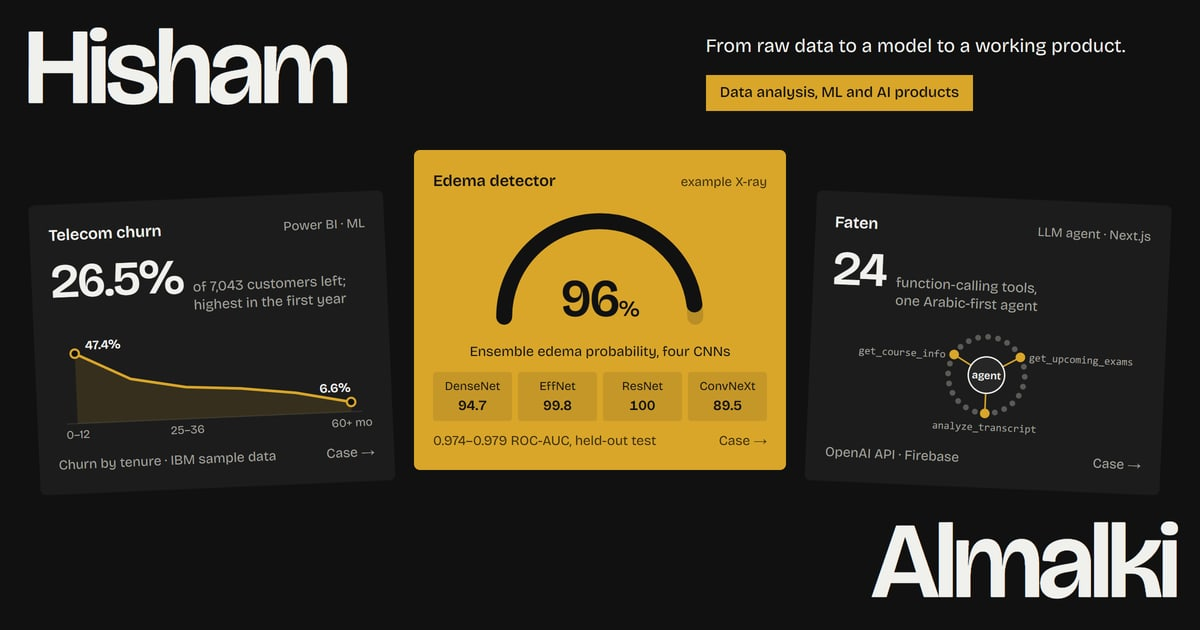
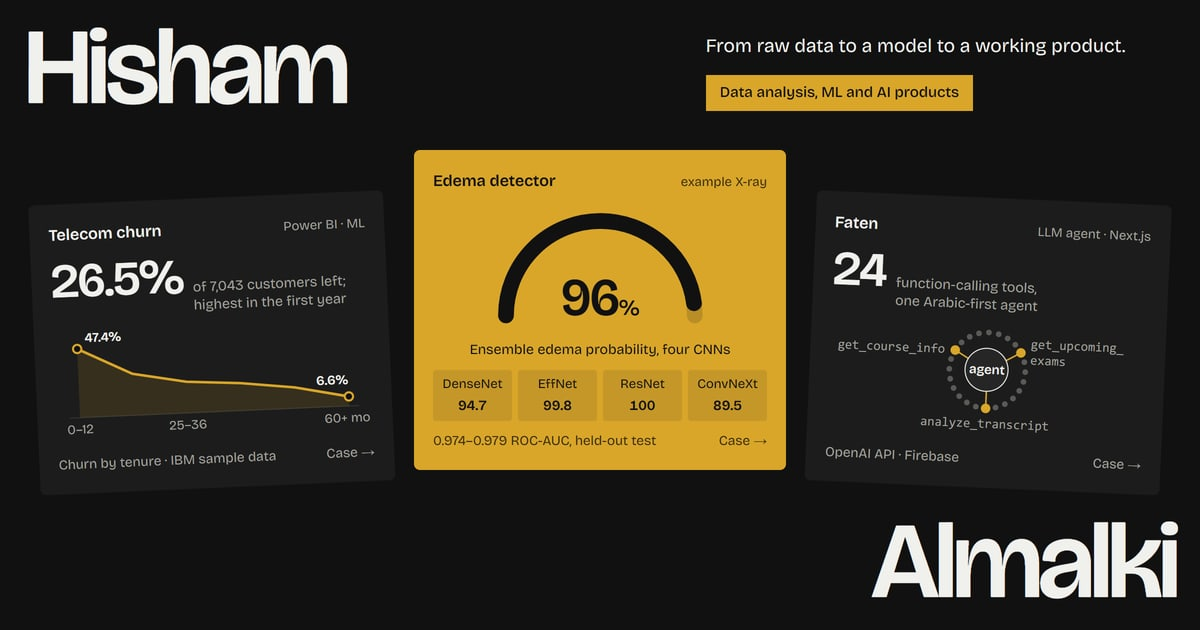
Make the hero cards readable at every size and fix narrow-screen overflow
The chart words (axis and value labels, tool names, "agent") move out of
the SVG into HTML laid over it, so they stay 13px however small the chart
is drawn; tool names are code and may break after an underscore. The card
row grows to 1440px with the heights in proportion and sits centred between
the intro and the name. On tablets the hero nav keeps all five links on one
line.

With large text on a phone, the Edema slider no longer widens its column
(its range input takes a row of its own when narrow), the case buttons
shrink and wrap, and long words in the skills table break.

diff --git a/src/index.css b/src/index.css
@@ -127,9 +127,9 @@ button { font: inherit; color: inherit; }
    straighten on hover and focus; the centre card is ochre, taller and on top.
    Fixed sizes, the mockup's at the default text size (rem, so the reader's
    text setting still applies), never the page's fluid curve: the row is at
-   most 1300px wide and centred, inset 1rem so the tilt (about 13px at a
+   most 1440px wide and centred, inset 1rem so the tilt (about 14px at a
    card's corner) stays inside the page margins. */
-.hc { grid-column: 1 / -1; grid-row: 3; align-self: center; justify-self: center; width: min(100% - 2rem, 81.25rem);
+.hc { grid-column: 1 / -1; grid-row: 3; align-self: center; justify-self: center; width: min(100% - 2rem, 90rem);
       list-style: none; margin: 0; padding: 0; display: grid;
       grid-template-columns: minmax(0, 1fr) minmax(0, 1.05fr) minmax(0, 1fr); column-gap: clamp(0.875rem, 1.6vw, 1.5rem); align-items: end; }
 .hc > li { grid-row: 1; container-type: inline-size; }
@@ -149,17 +149,24 @@ button { font: inherit; color: inherit; }
 .hc-f { margin-top: auto; display: flex; justify-content: space-between; gap: 10px; font-size: 0.84375rem; color: var(--dk-muted); }
 .hc-card.hl .hc-h span, .hc-card.hl .hc-f { color: var(--ac-muted); }
 .hc-f i { font-style: normal; white-space: nowrap; }
-.hc-big { display: flex; align-items: baseline; gap: 10px; }
+.hc-big { display: flex; flex-wrap: wrap; align-items: baseline; gap: 4px 10px; } /* the note drops under the number when there is no room beside it */
 .hc-big b { font-weight: 600; font-size: clamp(3rem, 3.6vw, 3.375rem); letter-spacing: -0.04em; line-height: 1; font-variant-numeric: tabular-nums; }
 .hc-big span { font-size: 0.875rem; color: var(--dk-muted); line-height: 1.3; }
 .hc svg { display: block; width: 100%; height: auto; overflow: visible; }
+/* Charts: the SVG draws, the words are HTML over it at fixed sizes (12px and
+   up); .g keeps the drawing's ratio, so the words' percentages land on it */
+.hc-fig .g { position: relative; width: 100%; aspect-ratio: var(--hc-r); }
+.hc-fig svg { position: absolute; inset: 0; width: 100%; height: 100%; }
+.hc-fig .g > span > * { position: absolute; line-height: 1.25; white-space: nowrap; }
 /* Churn by tenure */
 .hc-line .ln { fill: none; stroke: var(--ac-bg); stroke-width: 2.5; stroke-linejoin: round; stroke-linecap: round; stroke-dasharray: 100; }
 .hc-line .ar { fill: var(--ac-bg); opacity: 0.14; }
 .hc-line .gl { stroke: var(--dk-line); stroke-width: 1; }
 .hc-line circle { fill: var(--dk-bg); stroke: var(--ac-bg); stroke-width: 2; }
-.hc-line text { fill: var(--dk-muted); font: 11px var(--font); }
-.hc-line text.v { fill: var(--dk-ink); font-size: 12px; font-weight: 600; }
+.hc-line .v { font-size: 0.8125rem; font-weight: 600; color: var(--dk-ink); transform: translate(8px, calc(-100% - 2px)); }
+.hc-line .v.end { transform: translateY(calc(-100% - 8px)); }
+.hc-line .ax { font-size: 0.8125rem; color: var(--dk-muted); transform: translate(-50%, 4px); }
+.hc-line .ax.end { transform: translateY(4px); }
 /* The ensemble gauge: the number sits on the arc's wrapper */
 .hc-gauge .g { position: relative; width: min(100%, 16.25rem); margin: 0 auto; }
 .hc-gauge .tr, .hc-gauge .arc { fill: none; stroke-width: 14; stroke-linecap: round; }
@@ -169,25 +176,31 @@ button { font: inherit; color: inherit; }
                  letter-spacing: -0.04em; line-height: 1; font-variant-numeric: tabular-nums; }
 .hc-gauge .val small { font-size: 0.42em; font-weight: 500; letter-spacing: 0; }
 .hc-sub { text-align: center; font-size: 0.875rem; }
-.hc-votes { list-style: none; margin: 0; padding: 0; display: grid; grid-template-columns: repeat(4, minmax(0, 1fr)); gap: 6px; text-align: center; font-size: 0.75rem; }
+.hc-votes { list-style: none; margin: 0; padding: 0; display: grid; grid-template-columns: repeat(4, minmax(0, 1fr)); gap: 6px; text-align: center; font-size: 0.8125rem; }
 .hc-votes li { background: rgb(17 17 17 / 0.1); padding: 5px 2px; border-radius: 3px; min-width: 0; }
 .hc-votes b { display: block; font-size: 0.875rem; font-variant-numeric: tabular-nums; }
 /* The agent and its tools */
 .hc-hub .nd { fill: var(--lt-muted); }
 .hc-hub .nk { fill: var(--ac-bg); }
 .hc-hub .sp { stroke: var(--ac-bg); stroke-width: 1.6; stroke-dasharray: 100; }
-.hc-hub .hc-c { fill: var(--dk-raise); stroke: var(--dk-ink); stroke-width: 1.5; }
-.hc-hub .ht { fill: var(--dk-ink); font: 600 11px var(--font); }
-.hc-hub .tl { fill: var(--dk-muted); font: 11px ui-monospace, Consolas, monospace; }
-/* Side by side: fixed heights (sides 290px, the centre 320px), bottom-aligned,
-   each chart filling what its card has left; the row keeps clear of the name
-   below, which the tilt brings each outer corner about 28px towards */
+.hc-hub .agent { width: 2.75rem; height: 2.75rem; border-radius: 50%; display: grid; place-items: center; transform: translate(-50%, -50%);
+                 background: var(--dk-raise); border: 1.5px solid var(--dk-ink); color: var(--dk-ink); font-size: 0.8125rem; font-weight: 600; }
+.hc-hub .tl { font: 0.8125rem/1.25 ui-monospace, Consolas, monospace; color: var(--dk-muted); white-space: normal; overflow-wrap: anywhere; transform: translateY(-50%); }
+.hc-hub .tl.right { right: 0; } .hc-hub .tl.left { left: 0; text-align: right; } .hc-hub .tl.below { text-align: center; transform: none; }
+/* Side by side: the mockup's heights at a 1300px row (sides 290px, the centre
+   320px), growing with the row to 321 and 354px at its 1440px cap;
+   bottom-aligned, each chart filling what its card has left. The row is
+   centred between the intro and the name, kept clear of the name, which the
+   tilt brings each outer corner about 30px towards. */
 @media (min-width: 68.8125em) {
-  .hc { margin-bottom: 1.5rem; }
-  .hc-card { height: 18.125rem; }
-  .hc-card.hl { height: 20rem; }
-  .hc-card > svg, .hc-gauge { flex: 1 1 0; min-height: 0; }
-  .hc-card > svg { height: 100%; }
+  .hc { --row: min(100vw - 2 * var(--margin) - 2rem, 90rem); margin-bottom: 1.75rem; }
+  .hc-card { height: max(18.125rem, var(--row) * 0.2231); }
+  .hc-card.hl { height: max(20rem, var(--row) * 0.2462); }
+  .hc-fig, .hc-gauge { flex: 1 1 0; min-height: 0; }
+  .hc-fig { container-type: size; }
+  .hc-fig .g { width: min(100cqw, 100cqh * var(--hc-r)); margin-inline: auto; }
+  /* the tool names may use the chart area's full width, beyond the drawing */
+  .hc-hub .tl.right { right: calc((100% - 100cqw) / 2); } .hc-hub .tl.left { left: calc((100% - 100cqw) / 2); }
   .hc-gauge .g { width: auto; max-width: 100%; height: 100%; aspect-ratio: 200 / 112; }
   .hc-gauge .g svg { height: 100%; }
 }
@@ -198,7 +211,7 @@ button { font: inherit; color: inherit; }
     .hc-card:not(.hl) { display: grid; grid-template-columns: minmax(0, 1fr) minmax(0, 1.4fr); grid-template-rows: auto 1fr auto; gap: 14px 32px; }
     .hc-card:not(.hl) > .hc-h, .hc-card:not(.hl) > .hc-f { grid-column: 1 / -1; }
     .hc-card:not(.hl) > .hc-big { flex-direction: column; align-items: flex-start; align-self: start; }
-    .hc-card:not(.hl) > svg { grid-column: 2; grid-row: 2; max-width: 26rem; justify-self: end; }
+    .hc-card:not(.hl) > .hc-fig { grid-column: 2; grid-row: 2; width: 100%; max-width: 26rem; justify-self: end; }
   }
 }
 
@@ -266,7 +279,7 @@ dl.d dt { color: var(--lt-muted); }
 dl.d dd { margin: 0; }
 /* Buttons: one size everywhere, half of a 5-column details column */
 .cells { --btn: calc((100cqw - var(--col-gap)) * 5 / 24); display: flex; margin-top: 28px; }
-.cells a { flex: 0 0 var(--btn); min-height: 64px; display: flex; align-items: center; padding: 0 22px; text-decoration: none; font-weight: 500; transition: background-color var(--t-hover) ease; }
+.cells a { flex: 0 1 var(--btn); min-width: 0; min-height: 64px; display: flex; align-items: center; padding: 0 22px; text-decoration: none; font-weight: 500; transition: background-color var(--t-hover) ease; }
 .cells a:first-child { background: var(--bl-bg); color: var(--bl-ink); }
 .cells a:first-child:hover { background: var(--bl-hover); }
 .cells a:first-child:focus-visible { outline-color: var(--f-lt); }
@@ -319,7 +332,7 @@ dl.d dd { margin: 0; }
 .model-read { margin-top: 2px; font-size: calc(1rem + var(--g) * 0.0125); }
 .model-read b { font-weight: 600; font-variant-numeric: tabular-nums; }
 .model-note { font-size: calc(0.8125rem + var(--g) * 0.01016); color: var(--dk-muted); max-width: 62ch; }
-.reveal { background: var(--dk-bg); }
+.reveal { background: var(--dk-bg); container-type: inline-size; } /* its contents never widen the column */
 .reveal-stage { position: relative; overflow: hidden; background: #000000; }
 .reveal-stage img { position: absolute; inset: 0; width: 100%; height: 100%; object-fit: cover; }
 .reveal-overlay { clip-path: inset(0 calc(100% - var(--p)) 0 0); opacity: 0; transition: opacity 160ms ease; }
@@ -330,6 +343,12 @@ dl.d dd { margin: 0; }
 .reveal-bar output { font-variant-numeric: tabular-nums; font-size: calc(0.9375rem + var(--g) * 0.01172); text-align: right; color: var(--dk-muted); }
 .reveal-bar input[type='range'] { width: 100%; min-height: 44px; margin: 0; accent-color: var(--bd-bg); cursor: ew-resize; }
 .reveal-bar input[type='range']:focus-visible { outline: 2px solid var(--f-dk); outline-offset: 2px; }
+/* Narrow (a phone with large text): label and reading on one row, the range across the next */
+@container (max-width: 24em) {
+  .reveal-bar { grid-template-columns: minmax(0, 1fr) auto; row-gap: 4px; }
+  .reveal-bar label { white-space: normal; }
+  .reveal-bar input[type='range'] { grid-column: 1 / -1; grid-row: 2; }
+}
 
 /* ---------- 5. Skills ---------- */
 .skills { padding: var(--gap-section) var(--pad-x); }
@@ -441,6 +460,9 @@ footer { padding: 72px var(--pad-x) 24px; }
   .hc { align-self: start; justify-self: stretch; width: auto; margin-top: 24px; grid-template-columns: minmax(0, 1fr); row-gap: 16px; }
   .hc > li, .hc-telco, .hc-edema, .hc-faten { grid-column: 1; grid-row: auto; }
   .hc .hc-card { transform: none; min-height: 0; }
+  /* the five links on one line: the nav takes columns 6 to 12, closer together */
+  .hero-name { grid-column: 1 / span 5; }
+  .hero-nav { grid-column: 6 / -1; flex-wrap: nowrap; gap: 4px 16px; }
   .intro { grid-column: 1 / -1; grid-row: 2; max-width: 48ch; }
   .fact { display: none; }
   .groups { grid-template-columns: 1fr 1fr; }
@@ -485,6 +507,7 @@ footer { padding: 72px var(--pad-x) 24px; }
   .map { font-size: var(--s-small); border-spacing: 4px; margin: -4px; }
   .map thead th:first-child { width: 26%; }
   .map td { height: auto; padding: 10px 8px; }
+  .map td, .map th { hyphens: auto; overflow-wrap: anywhere; } /* a long word in a narrow column (large text) breaks rather than widen the page */
   .groups { grid-template-columns: 1fr; }
   .group ul { display: grid; grid-template-columns: repeat(2, minmax(0, 1fr)); column-gap: 16px; }
   .group button { grid-template-columns: 1fr; align-content: start; } .group button .w { text-align: left; }

diff --git a/src/components/HeroCards.jsx b/src/components/HeroCards.jsx
@@ -10,30 +10,44 @@ import { projects } from '../data/projects.js'
 
 const pct = (s) => parseFloat(s)
 
+// Charts are drawn in SVG; their words are HTML laid over them at fixed sizes
+// (12px and up), so they stay readable however small the chart is drawn. The
+// .g box keeps the SVG's own ratio, so a percentage of it is a point in the
+// drawing. The SVG carries every value in its label; the words are hidden from
+// screen readers, which would otherwise hear them twice.
+const at = (x, w) => `${((x / w) * 100).toFixed(2)}%`
+
 // Churn by tenure: points on 20…280, the 0–50% scale over 70 units above the
 // baseline at 84 (the mockup's chart, flattened to fit the card's height).
 function Line({ chart }) {
   const { points, unit } = chart
+  const [W, H, BASE] = [300, 110, 84]
   const max = Math.ceil(Math.max(...points.map(([, v]) => v)) / 10) * 10
-  const xy = points.map(([, v], i) => [20 + (i * 260) / (points.length - 1), +(84 - (v / max) * 70).toFixed(1)])
+  const xy = points.map(([, v], i) => [20 + (i * 260) / (points.length - 1), +(BASE - (v / max) * 70).toFixed(1)])
   const d = xy.map(([x, y], i) => `${i ? 'L' : 'M'}${x} ${y}`).join(' ')
   const [first, last] = [xy[0], xy[xy.length - 1]]
   const mid = Math.floor((points.length - 1) / 2)
   const fmt = (v) => `${v.toFixed(1)}%`
   const label = `Churn rate by tenure in ${unit}: ${points.map(([k, v]) => `${k} ${fmt(v)}`).join(', ')}`
   return (
-    <svg className="hc-line" viewBox="0 0 300 100" role="img" aria-label={label}>
-      <line className="gl" x1="10" y1="84" x2="290" y2="84" />
-      <path className="ar" d={`${d} L${last[0]} 84 L${first[0]} 84 Z`} />
-      <path className="ln" pathLength="100" d={d} />
-      <circle cx={first[0]} cy={first[1]} r="4" />
-      <circle cx={last[0]} cy={last[1]} r="4" />
-      <text className="v" x={first[0] + 10} y={first[1] - 3.5}>{fmt(points[0][1])}</text>
-      <text className="v" x={last[0]} y={last[1] - 10} textAnchor="end">{fmt(points[points.length - 1][1])}</text>
-      <text x={first[0]} y="98" textAnchor="middle">{points[0][0]}</text>
-      <text x={xy[mid][0]} y="98" textAnchor="middle">{points[mid][0]}</text>
-      <text x={last[0]} y="98" textAnchor="middle">{points[points.length - 1][0]} mo</text>
-    </svg>
+    <div className="hc-fig hc-line">
+      <div className="g" style={{ '--hc-r': W / H }}>
+        <svg viewBox={`0 0 ${W} ${H}`} role="img" aria-label={label}>
+          <line className="gl" x1="10" y1={BASE} x2="290" y2={BASE} />
+          <path className="ar" d={`${d} L${last[0]} ${BASE} L${first[0]} ${BASE} Z`} />
+          <path className="ln" pathLength="100" d={d} />
+          <circle cx={first[0]} cy={first[1]} r="4" />
+          <circle cx={last[0]} cy={last[1]} r="4" />
+        </svg>
+        <span aria-hidden="true">
+          <span className="v" style={{ left: at(first[0], W), top: at(first[1], H) }}>{fmt(points[0][1])}</span>
+          <span className="v end" style={{ right: at(W - last[0], W), top: at(last[1], H) }}>{fmt(points.at(-1)[1])}</span>
+          <span className="ax" style={{ left: at(first[0], W), top: at(BASE, H) }}>{points[0][0]}</span>
+          <span className="ax" style={{ left: at(xy[mid][0], W), top: at(BASE, H) }}>{points[mid][0]}</span>
+          <span className="ax end" style={{ right: 0, top: at(BASE, H) }}>{points.at(-1)[0]} mo</span>
+        </span>
+      </div>
+    </div>
   )
 }
 
@@ -89,35 +103,46 @@ const SLOTS = [4, 12, 20]
 const DELAYS = [850, 500, 1200] // bottom, then right, then left, as in the mockup
 function Hub({ chart }) {
   const { tools, named } = chart
-  const at = (i) => {
+  const [W, H, CX, CY, R] = [330, 120, 165, 48, 40]
+  const pos = (i) => {
     const a = (i / tools) * 2 * Math.PI
-    return [+(165 + 40 * Math.sin(a)).toFixed(1), +(48 - 40 * Math.cos(a)).toFixed(1), Math.sin(a)]
+    return [+(CX + R * Math.sin(a)).toFixed(1), +(CY - R * Math.cos(a)).toFixed(1), Math.sin(a)]
   }
+  // identifiers may break after an underscore when the card is narrow
+  const breakable = (s) => s.split('_').flatMap((part, i, all) => (i < all.length - 1 ? [part, '_', <wbr key={i} />] : [part]))
   const label = `Diagram, not a map of the real system: the Faten agent connected to ${tools} function-calling tools, three of them named: ${named.join(', ')}`
   return (
-    <svg className="hc-hub" viewBox="0 0 330 110" role="img" aria-label={label}>
-      {Array.from({ length: tools }, (_, i) => {
-        const [x, y] = at(i)
-        return SLOTS.includes(i) ? null : <circle key={i} className="nd" cx={x} cy={y} r="3" />
-      })}
-      {SLOTS.map((s, k) => {
-        const [x, y] = at(s)
-        return (
-          <g key={s}>
-            <line className="sp" pathLength="100" x1="165" y1="48" x2={x} y2={y} style={{ '--d': `${DELAYS[k]}ms` }} />
-            <circle className="nk" cx={x} cy={y} r="5" />
-          </g>
-        )
-      })}
-      <circle className="hc-c" cx="165" cy="48" r="19" />
-      <text className="ht" x="165" y="52" textAnchor="middle">agent</text>
-      {SLOTS.map((s, k) => {
-        const [x, y, sin] = at(s)
-        const side = sin > 0.3 ? 'start' : sin < -0.3 ? 'end' : 'middle'
-        const [tx, ty] = side === 'middle' ? [x, y + 18] : [x + (side === 'start' ? 9 : -9), y + 3.5]
-        return <text key={s} className="tl" x={tx} y={ty} textAnchor={side}>{named[k]}</text>
-      })}
-    </svg>
+    <div className="hc-fig hc-hub">
+      <div className="g" style={{ '--hc-r': W / H }}>
+        <svg viewBox={`0 0 ${W} ${H}`} role="img" aria-label={label}>
+          {Array.from({ length: tools }, (_, i) => {
+            const [x, y] = pos(i)
+            return SLOTS.includes(i) ? null : <circle key={i} className="nd" cx={x} cy={y} r="3" />
+          })}
+          {SLOTS.map((s, k) => {
+            const [x, y] = pos(s)
+            return (
+              <g key={s}>
+                <line className="sp" pathLength="100" x1={CX} y1={CY} x2={x} y2={y} style={{ '--d': `${DELAYS[k]}ms` }} />
+                <circle className="nk" cx={x} cy={y} r="5" />
+              </g>
+            )
+          })}
+        </svg>
+        <span aria-hidden="true">
+          <span className="agent" style={{ left: at(CX, W), top: at(CY, H) }}>agent</span>
+          {SLOTS.map((s, k) => {
+            const [x, y, sin] = pos(s)
+            const side = sin > 0.3 ? 'right' : sin < -0.3 ? 'left' : 'below'
+            // the outer edge of each side label is set in CSS (the chart area's edge)
+            const style = side === 'right' ? { left: `calc(${at(x, W)} + 10px)`, top: at(y, H) }
+              : side === 'left' ? { right: `calc(${at(W - x, W)} + 10px)`, top: at(y, H) }
+                : { left: 0, right: 0, top: `calc(${at(y, H)} + 8px)` }
+            return <code key={s} className={`tl ${side}`} style={style}>{breakable(named[k])}</code>
+          })}
+        </span>
+      </div>
+    </div>
   )
 }
 

diff --git a/DESIGN.md b/DESIGN.md
@@ -21,7 +21,7 @@ Rules: the accent appears only on the "Hand me a problem" field, the hero's cent
 
 ## Type
 
-One family, Bricolage Grotesque (self-hosted variable WOFF2, `font-display: swap`). Five sizes: `--s-small` 14–15, `--s-body` 18–19, `--s-head` 36–72, `--s-name` 9vw (15vw on phones), plus 16px case details and 14px case captions. The hero cards keep the mockup's fixed sizes instead of the fluid curve (16px titles, 13–14px labels, a 48–54px number, a 44–64px gauge reading); their row is at most 1300px wide, the side cards 290px tall and the centre 320px. Sizes and breakpoints are in rem/em, so browser zoom and the text-size setting move along one curve. From 82.5rem (1320px at the default size), where the cases sit side by side, body, small, details, captions and the Edema panel text grow with the window (`--grow`, `--r`, `--r2` in `index.css`; details 16px there, about 22px at 1920, 31px at 2560) up to a 160rem page; past that every section's content stays 160rem wide, centred, with the bands full width. Below 82.5rem the cases read in one column. Checked at 94 widths from 320 to 3840px, at 16px and 20px default text. Headings two lines at most. Arabic text inside frames uses system Arabic faces.
+One family, Bricolage Grotesque (self-hosted variable WOFF2, `font-display: swap`). Five sizes: `--s-small` 14–15, `--s-body` 18–19, `--s-head` 36–72, `--s-name` 9vw (15vw on phones), plus 16px case details and 14px case captions. The hero cards keep the mockup's fixed sizes instead of the fluid curve (16px titles, 13–14px labels, a 48–54px number, a 44–64px gauge reading); every word in a card is 13px or more, the chart labels set in HTML over the SVG so they never shrink with the drawing. The row is at most 1440px wide; the side cards are 290px tall and the centre 320px at a 1300px row, growing in proportion to 321 and 354px at the cap. Sizes and breakpoints are in rem/em, so browser zoom and the text-size setting move along one curve. From 82.5rem (1320px at the default size), where the cases sit side by side, body, small, details, captions and the Edema panel text grow with the window (`--grow`, `--r`, `--r2` in `index.css`; details 16px there, about 22px at 1920, 31px at 2560) up to a 160rem page; past that every section's content stays 160rem wide, centred, with the bands full width. Below 82.5rem the cases read in one column. Checked at 94 widths from 320 to 3840px, at 16px and 20px default text. Headings two lines at most. Arabic text inside frames uses system Arabic faces.
 
 ## House rules (from the skill, kept)
 
